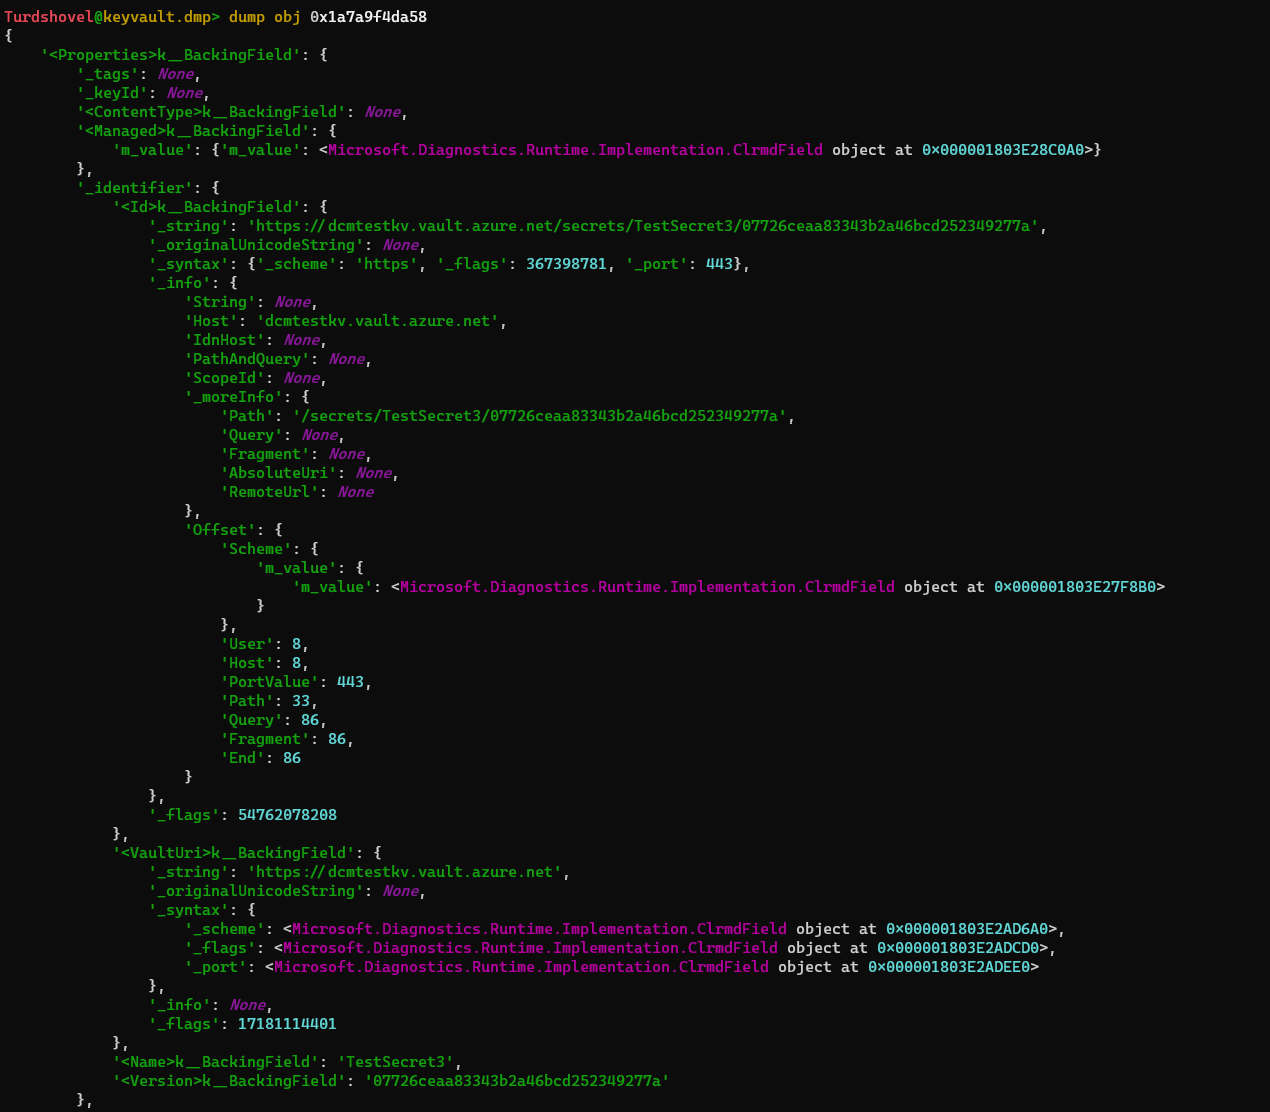
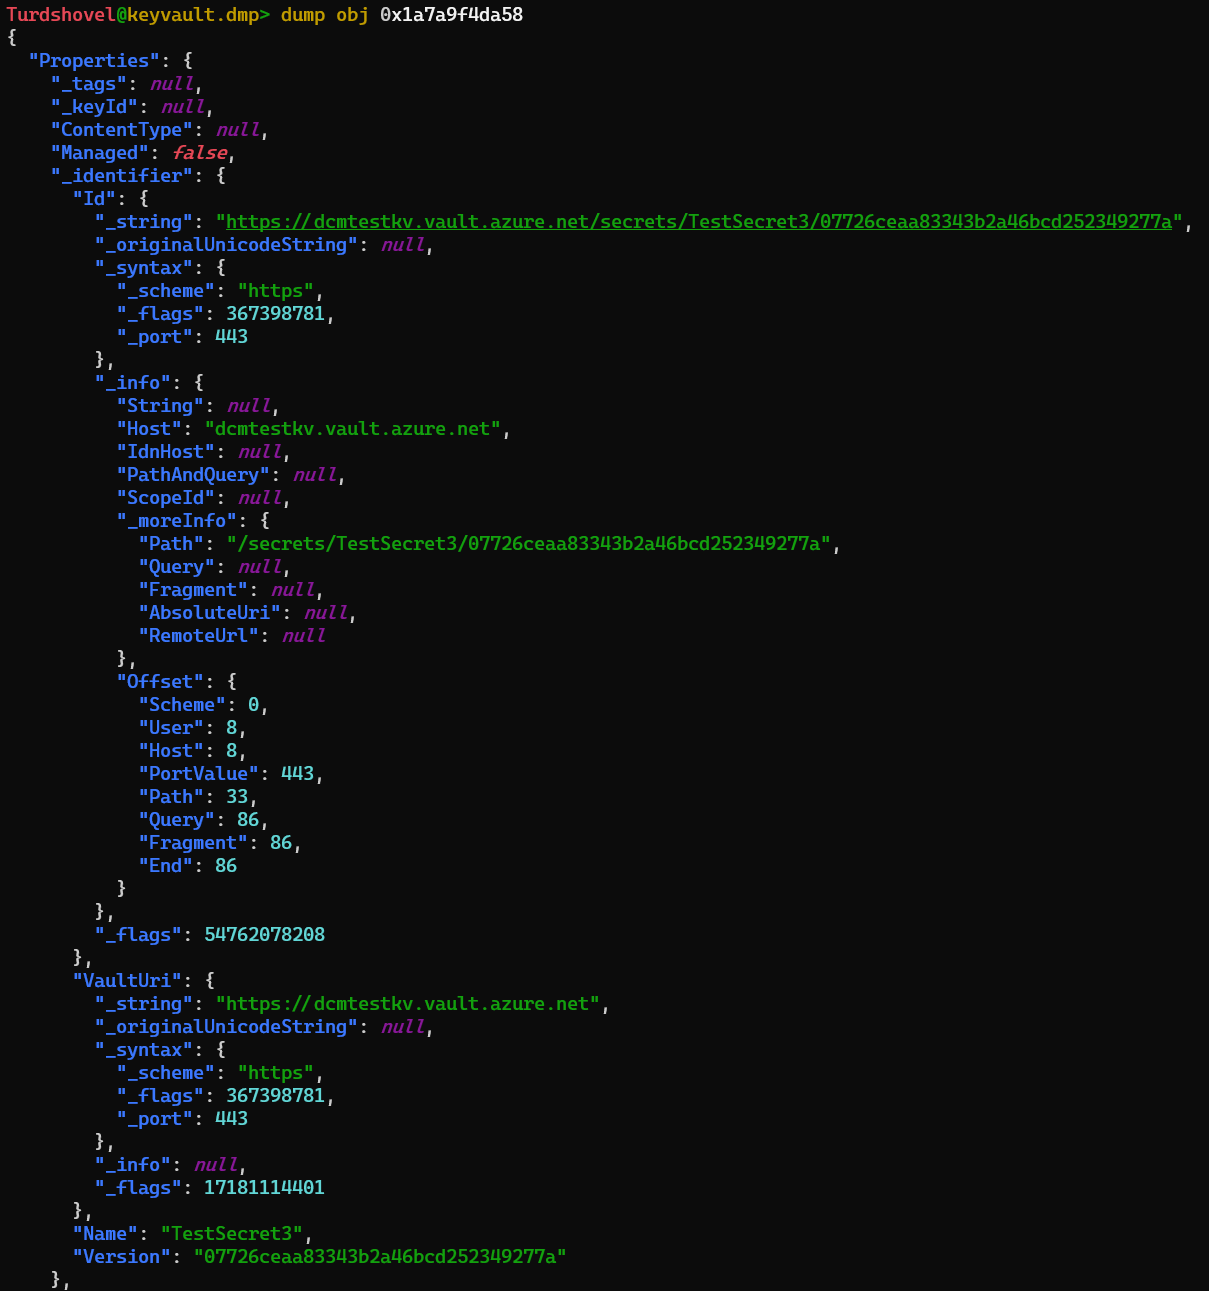
fix recursion and field names

Changed region(s): [[0.0, 0.0, 0.9793, 0.9784], [0.306, 0.5198, 0.9181, 0.5504]]

diff --git a/turdshovel/core/parsing.py b/turdshovel/core/parsing.py
@@ -11,6 +11,8 @@ def _remove_backing_field_string(name):
 
 
 def _convert_basic_fields(obj):
+
+    # Had to convert the type to string here for matching. Wild.
     element_type = str(obj.get_Type())
     if element_type in ["System.String", "System.Char"]:
         return obj.AsString()
@@ -110,46 +112,51 @@ def _iter_field(runtime, obj, field, visited_objects, is_dict=False):
     #                   Var = 19
     #                  Void = 1
 
-    # Also Arrays are a little harder because we should figure out the type first.
-    # Also, Check to see if we've been here before. If so, return
+    # Check to see if we've visited before in this iteration
+    # If we have, return the data
+    if visited_data := visited_objects.get(f"{obj.Address}_{field}", None):
+        return visited_data
 
-    # TODO: Figure out the best way to prevent recursion
-    if (obj.Address, field) in visited_objects:
-        return field
-    visited_objects.add(tuple((obj.Address, field)))
+    # If we haven't seen this, set the data to obj.Address.
+    # Objects that cause recursion will print out an address instead
+    visited_objects[f"{obj.Address}_{field}"] = f"<!>"
+
     if is_dict:
         field_data = []
 
-        # we have to loop this way because ClrArray object is not iterable in Python
+        # We have to loop this way because ClrArray object is not iterable in Python
         for idx in range(field.Length):
 
             entry = field.GetStructValue(idx)
 
-            key_data = {}
+            key_data = None
+            value_data = None
 
+            ### HANDLE DICT KEY
             try:
-                key_obj = entry.ReadValueTypeField("key")
-            except:
                 key_obj = entry.ReadObjectField("key")
+                key_data = _convert_basic_fields(key_obj)
+            except:
+                key_obj = entry.ReadValueTypeField("key")
 
-            if key_type := key_obj.get_Type():
-                for sub_field in key_type.Fields:
-                    sub_field_name = _remove_backing_field_string(sub_field.Name)
-                    key_data[sub_field_name] = _iter_field(
-                        runtime, key_obj, sub_field, visited_objects
-                    )
-            else:
-                key_data = key_obj
+            if not key_data:
+                key_data = {}
+                if key_type := key_obj.get_Type():
+                    for sub_field in key_type.Fields:
+                        sub_field_name = _remove_backing_field_string(sub_field.Name)
+                        key_data[sub_field_name] = _iter_field(
+                            runtime, key_obj, sub_field, visited_objects
+                        )
 
+            ### HANDLE DICT VALUE
             try:
                 value_obj = entry.ReadObjectField("value")
+                value_data = _convert_basic_fields(value_obj)
             except:
                 value_obj = entry.ReadValueTypeField("value")
 
-            value_data = _convert_basic_fields(value_obj)
             if not value_data:
                 value_data = {}
-
                 if type_ := value_obj.get_Type():
                     for sub_field in type_.Fields:
                         sub_field_name = _remove_backing_field_string(sub_field.Name)
@@ -253,6 +260,7 @@ def _iter_field(runtime, obj, field, visited_objects, is_dict=False):
                         runtime, value_obj, sub_field, visited_objects
                     )
 
+    visited_objects[f"{obj.Address}_{field}"] = field_data
     return field_data
 
 
@@ -261,7 +269,7 @@ def parse_obj(runtime, obj, console) -> Dict:
     output = {}
 
     # Helps with recursion.
-    visited_objects = set()
+    visited_objects = {}
 
     try:
         for field in obj.Type.Fields:

diff --git a/turdshovel/commands/dump.py b/turdshovel/commands/dump.py
@@ -73,6 +73,8 @@ class Dump:
 
         address = int(address, 16)
         obj = self.runtime.Heap.GetObject(address)
+
+        # We only care about valid objects and non-Free objects
         if obj.IsValid and not obj.IsFree:
             if obj.IsArray:
                 output = []
@@ -84,13 +86,17 @@ class Dump:
             else:
                 output = parse_obj(self.runtime, obj, self.console)
 
+            output = orjson.dumps(output, default=lambda x: repr(x))
             if save:
                 filename = f"{self.ctx.target_friendly_name}_{address}_{time.strftime('%Y%m%d-%H%M%S')}.json"
                 with open(filename, "wb") as save_file:
-                    save_file.write(orjson.dumps(output, default=lambda x: repr(x)))
+                    save_file.write(output)
                 self.console.print(f"[green bold]Output saved to {filename}")
             else:
-                self.console.print(output)
+                try:
+                    self.console.print_json(output.decode())
+                except:
+                    self.console.print(output)
 
     @command
     @argument(

diff --git a/README.md b/README.md
@@ -50,7 +50,8 @@ Turdshovel uses [Nubia](https://github.com/facebookincubator/python-nubia) as it
 
 <details>
 <summary>load</summary>
-The load command takes the path to the file dump as an argument.
+
+The `load` command takes the path to the file dump as an argument.
 
 <p align='center'><img src='docs/images/loadcommand.png' alt='load command' height="700"/></p>
 
@@ -67,13 +68,14 @@ Similar to the dump heap command via [SOS](https://docs.microsoft.com/en-us/dotn
 
 <details>
 <summary>dump obj</summary>
+
 Similar to the dump obj command via [SOS](https://docs.microsoft.com/en-us/dotnet/core/diagnostics/sos-debugging-extension), this command will dump all of the non-static fields of the object on the heap in JSON representation. You can also pass `save=True` to save the resulting JSON to disk.
 <br><br>
 
-**IMPORTANT:** When dumping a complex object, you may noticed fields represented by `Microsoft.Diagnostics.Runtime.Implementation.ClrmdField`. This is because I was trying to avoid recursion and this is a temporary. What it means is that this field has been visited before, and in order to avoid recursion limit errors for self-referencing objects or other other objects that would cause a loop, I just used the `repr` of the object as Python sees it. This is a **temporary solution** and will be addressed in a future release.
+**IMPORTANT:** When dumping a complex object, you may noticed fields `<!>`. This indicates that the field would have caused a recursion error to occur so Turdshovel did not parse the field. This usually occurs with objects that reference themselves.
 
-<p align='center'><img src='docs/images/dumpobj1.png' alt='dump heap 1' width="1100"/></p>
-<p align='center'><img src='docs/images/dumpobj2.png' alt='dump heap 2' width="1100"/></p>
+<p align='center'><img src='docs/images/dumpobj1.png' alt='dump obj 1' width="1100"/></p>
+<p align='center'><img src='docs/images/dumpobj2.png' alt='dump obj 2' width="1100"/></p>
 
 </details>
 
@@ -81,14 +83,18 @@ Similar to the dump obj command via [SOS](https://docs.microsoft.com/en-us/dotne
 <summary>dump mem</summary>
 Prints the bytes at the location specified for the amount of bytes specified. This is useful when objects point to locations in memory that are not objects, such as encrypted data, or just seeing what is around any given memory address. The example shows a simple string which you could find with the strings command but there are better use cases, specifically with pointers!
 
-<p align='center'><img src='docs/images/dumpmem.png' alt='dump meme'/></p>
+<p align='center'><img src='docs/images/dumpmem.png' alt='dump mem'/></p>
 
 
 </details>
+<br>
 
-<br><br>
 # Built With
 - [Python-Nubia](https://github.com/facebookincubator/python-nubia) - CLI Framework
 - [Python.NET](https://github.com/pythonnet/pythonnet) - Python/C# Interop
 - [ClrMD](https://github.com/microsoft/clrmd) - .NET Diagnostics Library
 - [Rich](https://github.com/willmcgugan/rich) - Amazing text, highlighting, and formatting
+<br>
+
+# Special Thanks
+- [Steve Dower](https://twitter.com/zooba) - Helped fixed the recursion issue!
